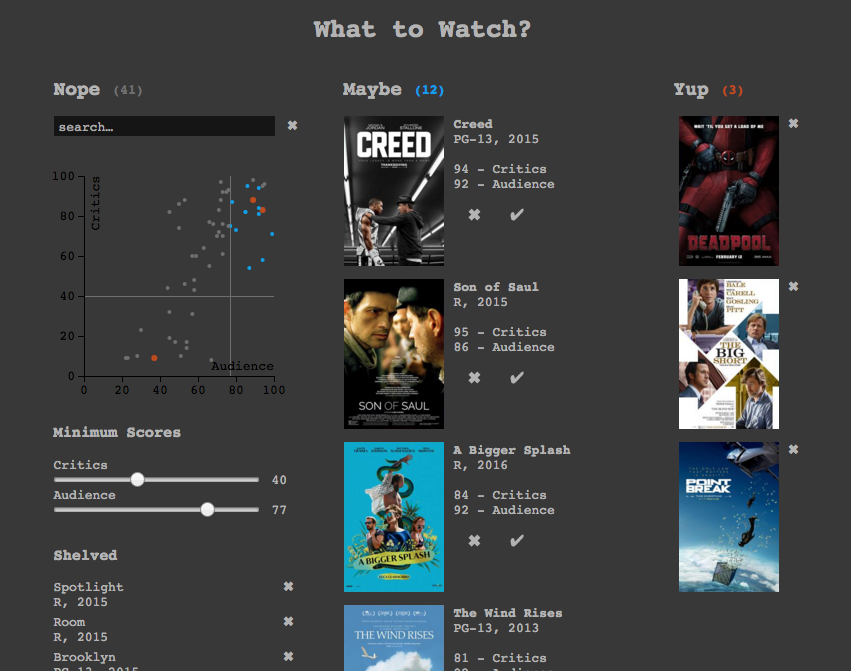
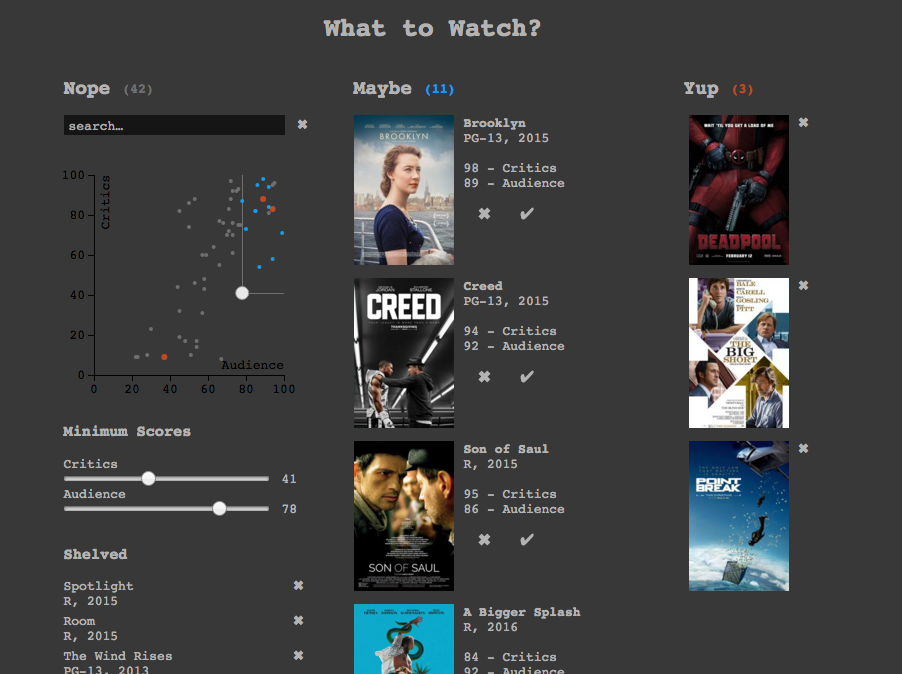
add a draggable handle to chart

diff --git a/starter/static/js/ctrl.js b/starter/static/js/ctrl.js
@@ -32,13 +32,17 @@ app.ctrl.select = function(id) {
 };
 
 app.ctrl.setCritMin = function(x) {
-  app.critics_min = x;
+  x = x < 0 ? 0 : x;
+  x = x > 100 ? 100 : x;
+  app.critics_min = Math.round(x);
   app.updateAvailableList();
   app.trigger('update');
 };
 
 app.ctrl.setAudMin = function(x) {
-  app.audience_min = x;
+  x = x < 0 ? 0 : x;
+  x = x > 100 ? 100 : x;
+  app.audience_min = Math.round(x);
   app.updateAvailableList();
   app.trigger('update');
 };

diff --git a/README.md b/README.md
@@ -8,7 +8,7 @@ The app revolves around a Tinder-like 'yup' / 'nope' experience, with some addit
 
 Any item can be opened to see additional details and get linked to other informational sites.
 
-A small visualization is included in the top-left corner which shows the distribution of audience and critic ratings, as well as the current saved/shelved state.
+A small visualization is included in the top-left corner which shows the distribution of audience and critic ratings, as well as the current saved/shelved state. The audience and critic minimum ratings can be adjusted concurrently using the draggable handle in the chart.
 
 ## Requirements & Setup
 
@@ -23,7 +23,7 @@ python manage.py runserver
 
 ## Implementation Notes
 
-* Data pre-processing is performed using a Jupyter notebook in the `data-utils` directory.
+* Data extraction and pre-processing is performed using a [Jupyter](http://jupyter.org/) Python notebook in the `data-utils` directory.
 * Poster thumbnails are delivered in sprite sheets for efficiency.
 * High-level data is included with the initial request by the server so all filtering can happen client-side. Additional movie meta-data is retrieved on-demand.
 * Front-end is implemented in [riot.js](http://riotjs.com/).
@@ -33,11 +33,12 @@ python manage.py runserver
 
 ## Missing Features
 
-* Data visualization as sketched above
 * Ability to handle an arbitrary number of movies. Current limit is unknown.
 * Check if it's available to stream on Netflix
-* User customization, including saving and ranking
+* Per-user customization, including saving app state
 * Better layout and scrolling behaviors
+* Convert Jupyter notebook to command-line Python scripts
+* Ensemble RNN-based recommendation engine
 * ...
 
 
